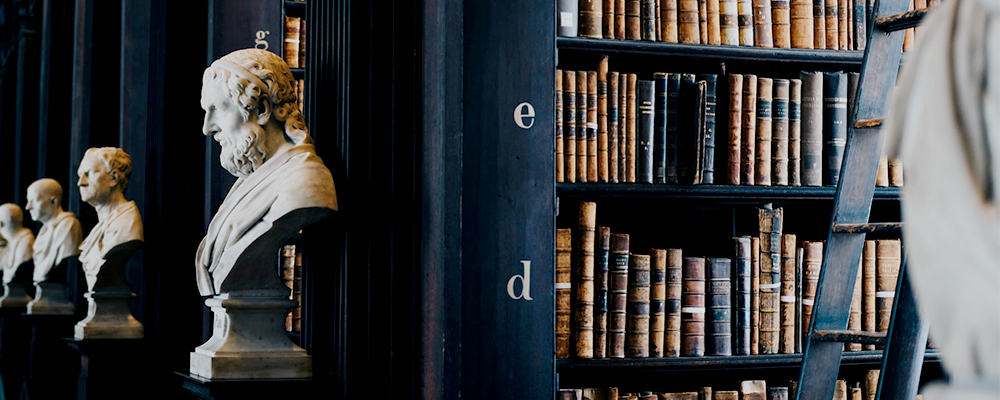
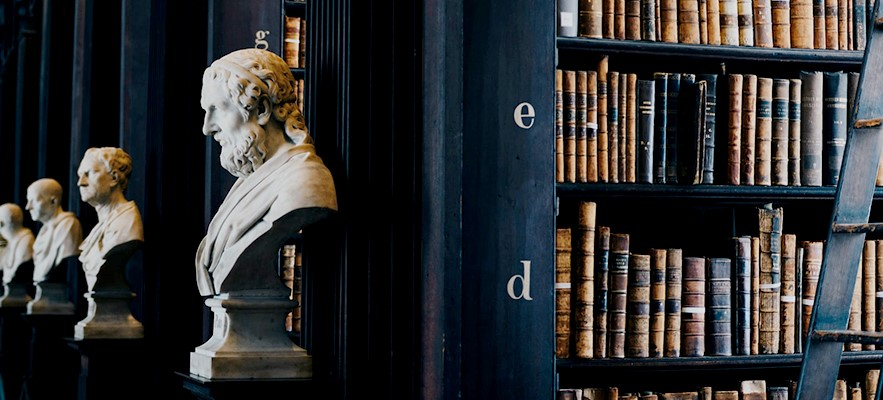
finished events pages

diff --git a/src/app/components/events.tsx b/src/app/components/events.tsx
@@ -13,15 +13,36 @@ import Link from "next/link";
 // icons
 import { CalendarDaysIcon, ArrowLeftCircleIcon, MapPinIcon } from "@heroicons/react/24/solid";
 
+interface CatBtn {
+    category: string;
+    onClick: () => void;
+}
 
-export function EventsList() {
+const CategoryButton: React.FC<CatBtn> = ({ category, onClick }) => {
+    return (
+        <button onClick={onClick}>{category}</button>
+    );
+};
+
+interface Recs {
+    filter?: string; 
+}
+
+export function EventsList({filter}: Recs) {
     const [events, setEvents] = useState<Events[]>([]);
+    const [filteredEvents, setFilteredEvents] = useState<Events[]>([]);
+    const [selectedCategory, setSelectedCategory] = useState<string | null>(null);
+    const [searchLocation, setSearchLocation] = useState<string>("");
+    const [searchName, setSearchName] = useState<string>("");
+    const [searchDate, setSearchDate] = useState<string>("");
+
 
     useEffect(() => {
         const fetchEvents = async () => {
             try {
                 const eventsData = await getEvents();
                 setEvents(eventsData);
+                setFilteredEvents(eventsData);
             } catch (error) {
                 console.error(error);
             }
@@ -30,42 +51,149 @@ export function EventsList() {
         fetchEvents();
     }, []);
 
+    useEffect(() => {
+        let filtered = events;
+
+        // for recs
+        if (filter) {
+            filtered = events.filter(event => event.category.includes(filter));
+        }
+
+        if (searchName.trim() != ""){
+            filtered = filtered.filter(event => event.name.toLocaleLowerCase().includes(searchName.toLocaleLowerCase()));
+        }
+
+        if (searchLocation.trim() !== "") {
+            filtered = filtered.filter(event => event.location.toLowerCase().includes(searchLocation.toLowerCase()));
+        }
+
+        if (searchDate.trim() !== "") {
+            filtered = filtered.filter(event => event.startDate.includes(searchDate));
+        }
+
+        setFilteredEvents(filtered);
+    }, [filter, events, searchName, searchLocation, searchDate]);
+
+
+    const filterEvents = (category: string) => {
+        setSelectedCategory(category);
+        if (category === "All") {
+            setFilteredEvents(events);
+        } else {
+            const filteredEvents = events.filter(event => event.category.includes(category));
+            setFilteredEvents(filteredEvents);
+        }
+    };
+
+
     if (!events) {
-        return <div>Loading Events...</div>;
+        return <h2>Loading Events...</h2>;
     }
 
     return (
-        <section className="grid">
-            <div className="max-w-sm flex flex-col justify-self-center shadow-xl m-5">
+        <section className="p-1">
+            {!filter && (
+                <>
+                    <h2 className="text-center my-2">Discover Upcoming Events</h2>
+                    <div className="mt-2">
+                        <form className="drop-shadow">
+                            <label htmlFor="name">Title</label>
+                            <input type="text" 
+                            name="name" 
+                            id="name"
+                            placeholder="Event name"
+                            value={searchName} 
+                            onChange={e => setSearchName(e.target.value)}
+                            className=" px-3 py-2 w-full"
+                            />
+                            <label htmlFor="location">Location</label>
+                            <input
+                            id="location"
+                            name="location"
+                            type="text"
+                            placeholder="Search by Location"
+                            value={searchLocation}
+                            onChange={e => setSearchLocation(e.target.value)}
+                            className=" px-3 py-2 w-full"
+                            />
 
-                {events.map(event => (
+                            <label className="Date" htmlFor="Date">Date</label>
+                                <input
+                                id="Date"
+                                name="Date"
+                                type="date"
+                                placeholder="Search by Date"
+                                value={searchDate}
+                                onChange={e => setSearchDate(e.target.value)}
+                                className="border rounded-md px-3 py-2 w-full"
+                                />
+                        </form>
                     
-                <div key={event.id}>
-                    <Link 
-                    href={`/discover/${event.id}`}
-                    >
-                        <Image
-                        src={event.image}
-                        alt={`${event.name} image`}
-                        width={100}
-                        height={100}
-                        layout="responsive"
-                        priority
-                        ></Image>
-                        <div className="p-3">
-                            <h3 className="card-title">{event.name}</h3>
-                            <p>{event.description}</p>
-                        </div>
-                    </Link>
-                    <div className="p-3">
-                        {event.category.map((category, index) => ( <span key={index} className="badge badge-primary mr-1 badge-lg text-neutral bg-accent">{category}</span>
-                            ))}
-                        <p>Start Date: {monthDay(event.startDate)}</p>
                     </div>
 
+                    <div className=" mb-5 p-3 flex justify-center space-x-2">
+                        <div className="self-center btn bg-secondary hover:bg-primary text-white py-2 px-4 rounded-md">
+                        <CategoryButton category="All Events" onClick={() => filterEvents("All")} />
+                    </div>
+                
+                    <div className="dropdown dropdown-hover">
+                    <p tabIndex={0} role="button" className=" m-1 btn bg-secondary hover:bg-primary text-white py-2 px-4 rounded-md">Categories ⬇</p>
+                    <ul tabIndex={0} className="dropdown-content z-[1] menu p-2 shadow bg-neutral rounded-box w-52">
+                        <li><CategoryButton category="Art" onClick={() => filterEvents("Art")} /></li>
+                        <li><CategoryButton category="Festival" onClick={() => filterEvents("Music")} /></li>
+                        <li><CategoryButton category="Music" onClick={() => filterEvents("Music")} /></li>
+                        <li><CategoryButton category="History" onClick={() => filterEvents("History")} /></li>
+                        <li><CategoryButton category="Celebrations" onClick={() => filterEvents("Celebrations")} /></li>
+                        <li><CategoryButton category="Community" onClick={() => filterEvents("Community")} /></li>
+                        <li><CategoryButton category="Crafts" onClick={() => filterEvents("Crafts")} /></li>
+                        <li><CategoryButton category="Food" onClick={() => filterEvents("Food")} /></li>
+                        <li><CategoryButton category="Exhibition" onClick={() => filterEvents("Exhibition")} /></li>
+                    </ul>
+                    
+                    </div>
+                
+                    </div>     
+                </>
+                )}
+
+            <div className="max-w-sm m-auto flex flex-col md:grid md:grid-cols-2 md:max-w-none gap-2">
+                {filteredEvents.map(event => (
+                <div key={event.id} className="shadow-xl m-5 relative rounded-xl hover:scale-105 md:w-w-[1/2] lg:w-[1/3]">
+                    <Link href={`/discover/${event.id}`}>
+                        <div>
+                            <div className="relative h-[180px] md:h-[200px] lg:h-[300px] overflow-hidden">
+                                <Image
+                                src={event.image}
+                                alt={`${event.name} image`}
+                                fill
+                                style={{ objectFit: 'cover'}}
+                                className="rounded-xl"
+                                />
+                            </div>
+                            
+                            <div className="p-3">
+                                <h3 className="">{event.name}</h3>
+                                <p className="truncate">{event.description}</p>
+                            </div>
+                            <div className="p-1 absolute inset-2 bg-secondary max-h-fit max-w-fit rounded-md">
+                                <p className="text-neutral"> 📅Date: {monthDay(event.startDate)}</p>
+                            </div>
+                            
+                        </div>  
+                    </Link>
+                    <div className="p-3 border-t text-center">
+                        {event.category.map((category, index) => (
+                            <button key={index} 
+                            onClick={() => filterEvents(category)}
+                            title={`Filter by ${category}`}
+                            className="badge badge-primary mr-1 badge-lg text-neutral bg-accent">{category}</button>
+                        ))}
+                        
+                    </div>
                 </div>
-                ))}
-            </div>
+            ))}
+
+            </div>    
         </section>
     );
 }
@@ -117,7 +245,7 @@ export function EventDetail() {
                 <Image
                 src={event.image}
                 alt={`${event.name} image`}
-                layout="fill"
+                fill={true}
                 priority
                 objectFit="cover"
                 className="rounded-b-2xl overflow-hidden"
@@ -192,6 +320,9 @@ export function EventDetail() {
                 <div className="md:col-span-1">
                     <div className="m-4">
                     <h3 className="bg-primary text-neutral p-2 rounded-md">Recommendations</h3>
+                    </div>
+                    <div className="">
+                        <EventsList filter={event.category[0]}></EventsList>
                     </div>
                 </div>
             </section>

diff --git a/pages/api/profile.ts b/pages/api/profile.ts
@@ -8,7 +8,7 @@ export default async function handler(req: NextApiRequest, res: NextApiResponse)
             case 'GET':
                 try {
                     const { user } = req.query;
-                    const profile = await prisma.profile.findUnique( {
+                    let profile = await prisma.profile.findUnique( {
                         where: {
                             username: String(user)
                         },
@@ -18,28 +18,21 @@ export default async function handler(req: NextApiRequest, res: NextApiResponse)
                             posts: true
                         }
                     })
-                    if (profile) {
-                        res.status(200).json(profile);
-                    } else if (!profile) {
-                        const newProfile = await prisma.profile.create({
+                    if (!profile) {
+                        let profile = await prisma.profile.create({
                             data : {
                                 username: String(user)
                             }
                         })
-                        res.status(201).json(newProfile);
-                    } else {
-                        res.status(404).json({
-                            error: "Profile cound not be found or created"
-                        })
                     } 
+                    res.status(200).json(profile);
                 } catch(error) {
                     console.error(error);
                     res.status(500).json({ message: 'Internal Server Error' });
                 }
-
                 break
                 default:
-                res.setHeader('Allow', ['GET', 'PUT']);
+                res.setHeader('Allow', ['GET']);
                 res.status(405).end(`Method ${req.method} Not Allowed`);
 
         }
@@ -50,4 +43,3 @@ export default async function handler(req: NextApiRequest, res: NextApiResponse)
         await prisma.$disconnect();
     }
 }
-

diff --git a/src/app/components/user.tsx b/src/app/components/user.tsx
@@ -42,7 +42,6 @@ export const User = () => {
     }
 
     const username = session.user.name ?? "eculture_user"
-    const userIdentifier = session.user.email ?? ""
     const userImage = session.user.image ?? userIcon; 
 
     return (
@@ -50,7 +49,7 @@ export const User = () => {
         <section className="m-5 flex items-center gap-10">
 
             <div className="avatar online flex-none ">
-                <div className="w-24 rounded-full ring ring-primary ring-offset-base-100 ring-offset-2">
+                <div className="w-26 rounded-full ring ring-primary ring-offset-base-100 ring-offset-2 overflow-hidden">
                     <Image
                     src={userImage}
                     alt="user avatar"
@@ -61,15 +60,13 @@ export const User = () => {
             </div>
 
             <div className="">
-                <h2>@{session.user.name}</h2>
+                <h2 >@{session.user.name}</h2>
                 
-                <p>{session.user.email}</p>
-                <div className=" my-3 btn bg-secondary hover:bg-primary text-white py-2 px-10 rounded-md">
+                <p className="text-accent">{session.user.email}</p>
+                <div className=" my-3 btn bg-secondary hover:bg-primary text-white py-2 px-6 rounded-md">
                     <LogoutButton />
                 </div>
-                
             </div>
-
 
         </section>
 

diff --git a/src/app/components/header.tsx b/src/app/components/header.tsx
@@ -9,7 +9,7 @@ import { Bars3BottomRightIcon } from '@heroicons/react/24/solid';
 function Nav() {
   return (
     <nav className='bg-secondary'>
-      <ul className="flex items-center justify-between p-1 mx-2">
+      <ul className="flex items-center justify-between p-2 mx-2">
         <li className=''>
           <Link href="/">
             <Image
@@ -73,10 +73,10 @@ function SmallerNav() {
 export default function Header() {
   return (
     <header className="text-neutral font-headline">
-      <div className="sm:hidden">
+      <div className="lg:hidden">
         <SmallerNav />
       </div>
-      <div className="hidden sm:block">
+      <div className="hidden lg:block">
         <Nav />
       </div>
     </header>

diff --git a/src/app/discover/page.tsx b/src/app/discover/page.tsx
@@ -1,8 +1,14 @@
-import {EventsList, EventDetail} from "../components/events"
+import { EventsList } from "../components/events"
+import { Banner } from "../components/banner"
+import banner1 from "../../../public/banner3.jpg"
 
 export default function DiscoverPage(){
     return(
         <>
+            <Banner
+            banner1={banner1}
+            title="Discover"
+            ></Banner>
             <EventsList></EventsList>
         </>
     )

diff --git a/src/lib/definitions.ts b/src/lib/definitions.ts
@@ -8,7 +8,7 @@ export type Events = {
     content: string
     likes:  number
     location: string
-    category: []
+    category: string[]
     comments: Comments[];
     registrations: Registration[];
 }
